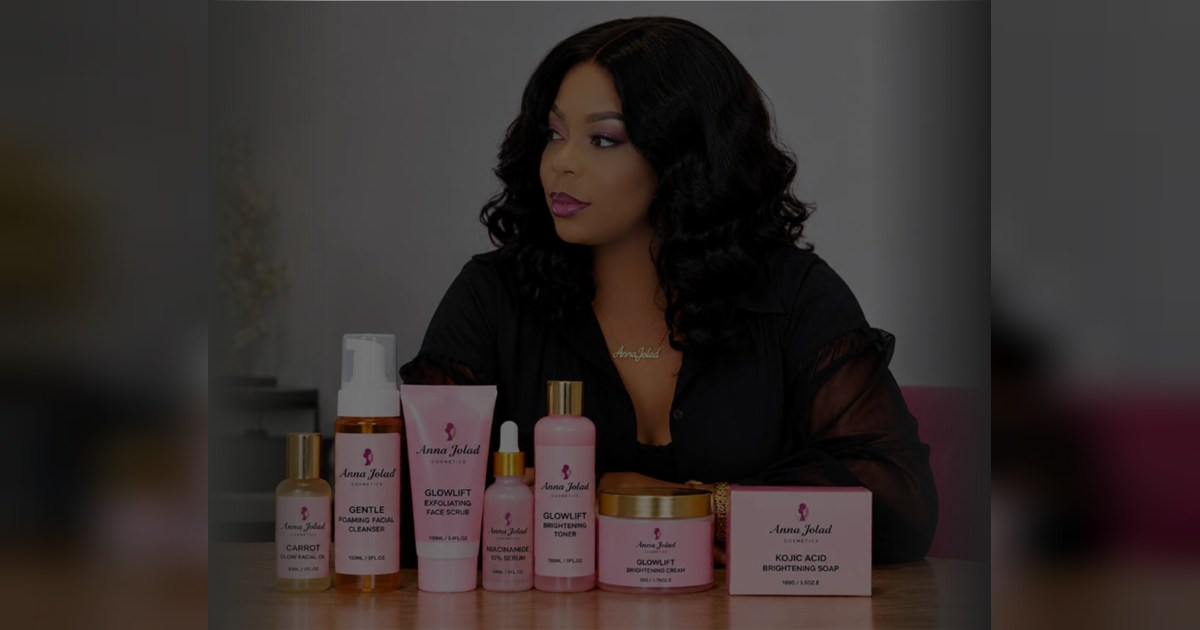
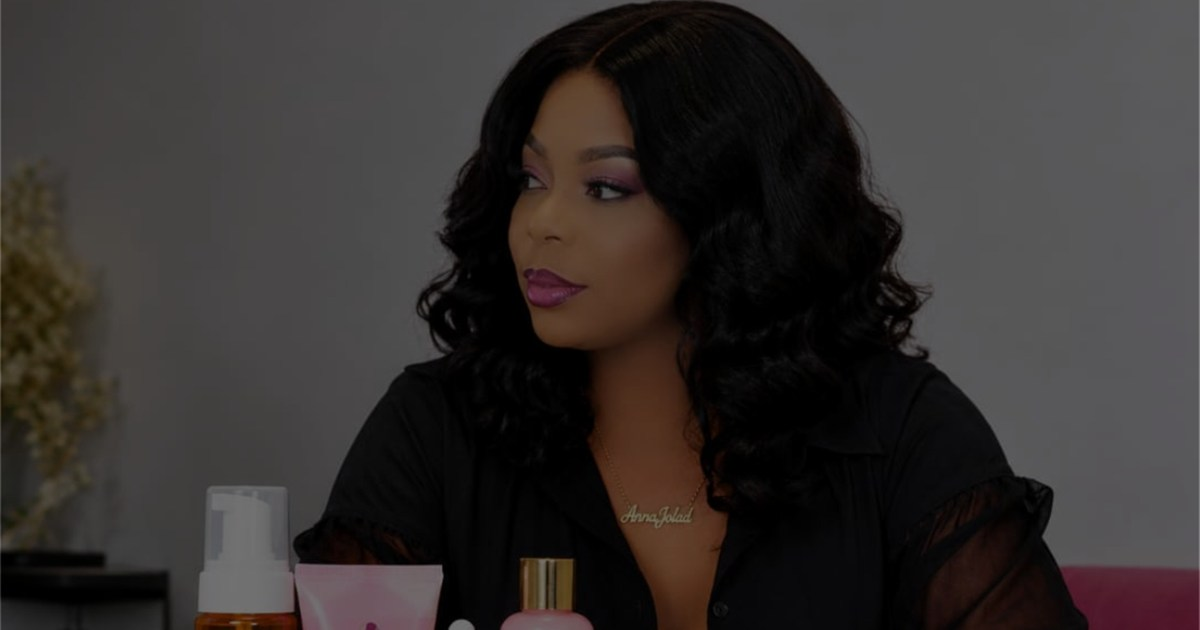
Link preview: crop photo to 1200x630 (no blurred filler) + new preview writeup

diff --git a/index.html b/index.html
@@ -13,7 +13,7 @@
     <meta property="og:title" content="Anna J'olad Cosmetics | Beauty & Self-Care Essentials" />
     <meta
       property="og:description"
-      content="Handcrafted lip, body and hair essentials made in small batches. Order easily on WhatsApp."
+      content="Anna J'olad Cosmetics produces quality lip, body and hair care products formulated to help you look and feel your best."
     />
     <meta property="og:type" content="website" />
     <meta property="og:site_name" content="Anna J'olad Cosmetics" />
@@ -38,9 +38,12 @@
          📐 KEEP IT 1200 x 630 (1.91:1) — that ratio is what makes WhatsApp
             show the big picture ABOVE the text. A square/near-square photo
             (e.g. 1169 x 941) makes WhatsApp shrink it to a small thumbnail
-            BESIDE the text, and no meta tag can override that. Keep it under
-            300 KB too (WhatsApp skips oversized images).
-            Rebuild it from the master photo anytime with:
+            BESIDE the text, and no meta tag can override that (Meta simply
+            center-crops anything that isn't 1.91:1). Keep it under 300 KB
+            too (WhatsApp skips oversized images).
+            So the banner IS the photo, cropped to 1.91:1 — no blurred
+            backdrop, no letterboxing bars. Rebuild it from the master photo
+            anytime (add -Top <row> to pick a different slice of the photo):
               powershell -ExecutionPolicy Bypass -File scripts\make-og-image.ps1
     =========================================================================== -->
     <meta property="og:url" content="https://www.annajoladcosmetics.app/" />
@@ -59,7 +62,7 @@
     <meta name="twitter:title" content="Anna J'olad Cosmetics | Beauty & Self-Care Essentials" />
     <meta
       name="twitter:description"
-      content="Handcrafted lip, body and hair essentials made in small batches. Order easily on WhatsApp."
+      content="Anna J'olad Cosmetics produces quality lip, body and hair care products formulated to help you look and feel your best."
     />
     <meta name="twitter:image" content="https://www.annajoladcosmetics.app/images/metatag.jpg" />
     <link rel="preconnect" href="https://fonts.googleapis.com" />

diff --git a/README.md b/README.md
@@ -75,15 +75,23 @@ with full instructions).
 (**1200 × 630** is ideal, under 300 KB). A square/portrait photo is
 automatically shrunk to a small thumbnail *beside* the text — that layout is
 chosen by WhatsApp from the image's shape, so no meta tag can force it.
-Rebuild the banner from the master photo anytime:
+So the banner **is** the photo, cropped to 1.91:1 — the picture fills the whole
+frame, with no blurred backdrop and no side bars. Rebuild it from the master
+photo anytime:
 
 ```powershell
 powershell -ExecutionPolicy Bypass -File scripts\make-og-image.ps1
 ```
 
-(reads `scripts/metatag-source.jpg`, writes the 1200 × 630
-`public/images/metatag.jpg` — the master photo is kept outside the deployed
-folder so it isn't shipped.)
+(reads `scripts/metatag-source.jpg`, crops the 1.91:1 slice starting at source
+row 25, and writes the 1200 × 630 `public/images/metatag.jpg` — the master photo
+is kept outside the deployed folder so it isn't shipped.)
+
+The master is taller than 1.91:1, so ~327 px of its height is trimmed by the
+crop. Which slice survives is controlled by `-Top` (the source row that becomes
+the banner's top edge) — e.g. `-Top 110` keeps more of the product row and trims
+the top of the hair, `-Top 327` hugs the bottom of the photo. Re-running it
+rewrites `public/images/metatag.jpg`; nothing else needs touching.
 
 **Moving to a real custom domain later?** The preview picture keeps working
 automatically (it's served by Vercel, which stays live next to your domain).

diff --git a/public/images/README.md b/public/images/README.md
@@ -14,10 +14,15 @@ appears at `/images/hero.jpeg` — exactly where each component already looks fo
 | `metatag.jpg`                    | Link previews (WhatsApp / Facebook / X) — must stay **1200×630** |
 
 > `metatag.jpg` is the link-preview banner. Keep the 1200×630 (1.91:1) shape:
-> that ratio is what makes WhatsApp show the big picture *above* the text.
+> that ratio is what makes WhatsApp show the big picture *above* the text, and
+> the banner must be the picture itself — cropped to that shape, with no
+> blurred/letterboxed background filling the gaps.
 > Regenerate it from the master photo with
 > `powershell -ExecutionPolicy Bypass -File scripts\make-og-image.ps1`
 > (master stays in `scripts/metatag-source.jpg`, outside the deployed folder).
+> Add `-Top <row>` to choose which horizontal slice of the photo the crop keeps
+> (default `25` = keep the subject's whole head, product row running off the
+> bottom; `-Top 110` shows more of the product row and trims the crown).
 
 
 Product image filenames match each product's `id` field in `src/data/products.ts`:
